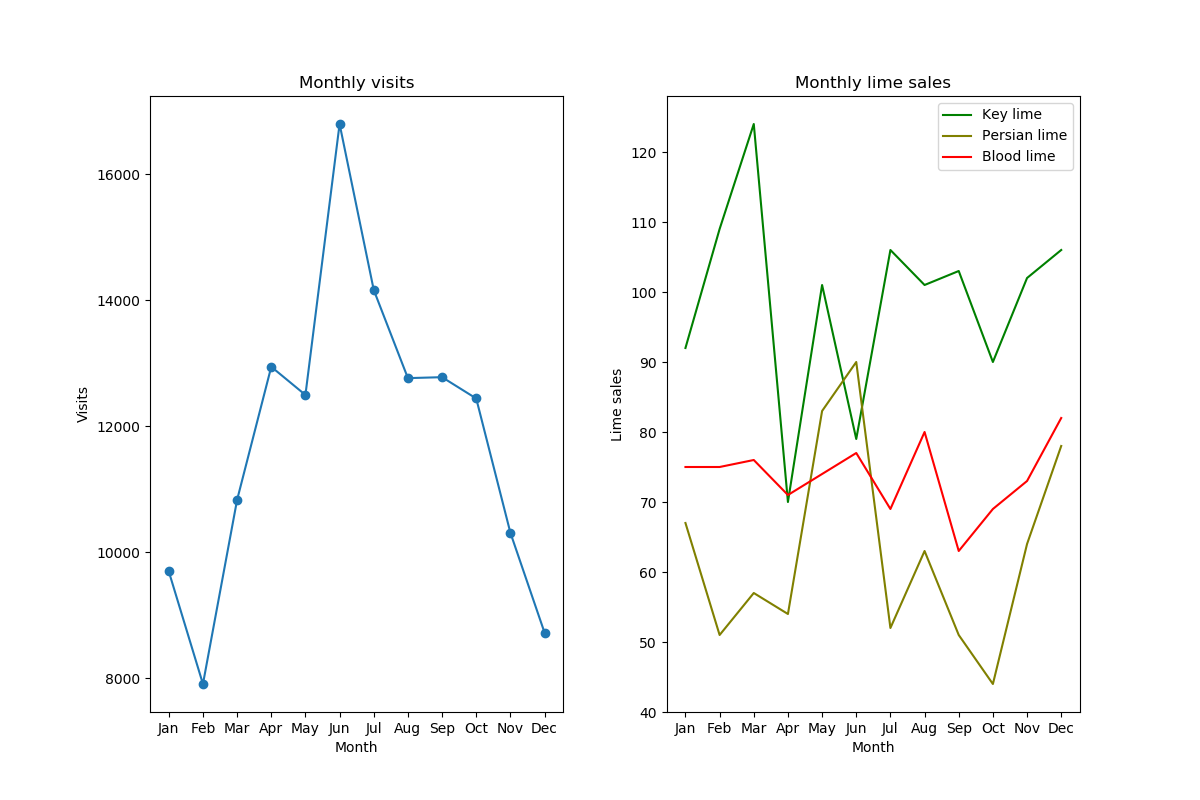
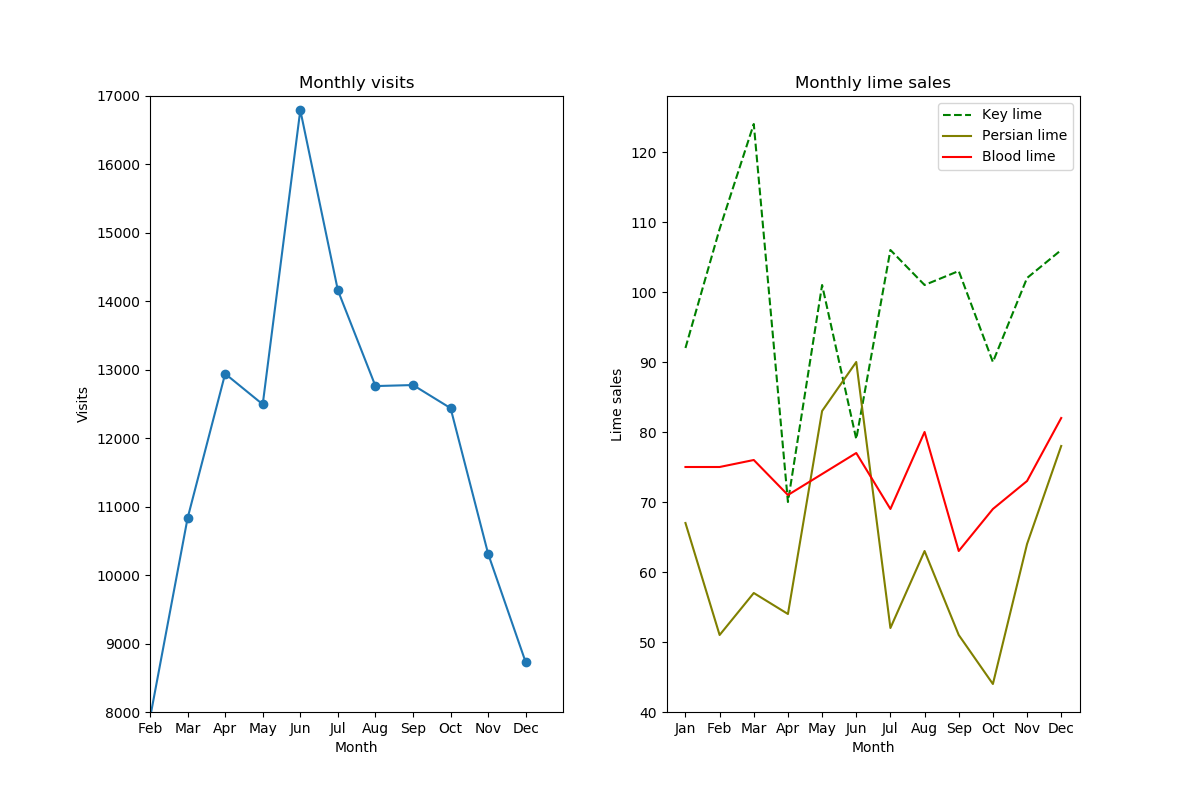
Add missing commands from exercise

diff --git a/script.py b/script.py
@@ -9,7 +9,7 @@ key_limes_per_month = [92.0, 109.0, 124.0, 70.0, 101.0, 79.0, 106.0, 101.0, 103.
 persian_limes_per_month = [67.0, 51.0, 57.0, 54.0, 83.0, 90.0, 52.0, 63.0, 51.0, 44.0, 64.0, 78.0]
 blood_limes_per_month = [75.0, 75.0, 76.0, 71.0, 74.0, 77.0, 69.0, 80.0, 63.0, 69.0, 73.0, 82.0]
 
-
+plt.close('all')
 # create left subplot
 plt.figure(figsize=[12, 8])
 ax1 = plt.subplot(1, 2, 1)
@@ -20,10 +20,11 @@ plt.ylabel('Visits')
 plt.title('Monthly visits')
 ax1.set_xticks(x_values)
 ax1.set_xticklabels(months)
+plt.axis([1, 12, 8000, 17000])
 
 # create right subplot
 ax2 = plt.subplot(1, 2, 2)
-plt.plot(x_values, key_limes_per_month, color='green')
+plt.plot(x_values, key_limes_per_month, color='green', linestyle='--')
 plt.plot(x_values, persian_limes_per_month, color='olive')
 plt.plot(x_values, blood_limes_per_month, color='red')
 plt.legend(['Key lime', 'Persian lime', 'Blood lime'])
@@ -33,8 +34,10 @@ plt.ylabel('Lime sales')
 ax2.set_xticks(x_values)
 ax2.set_xticklabels(months)
 
+
 # adjust padding
 plt.subplots_adjust(wspace=0.25)
+
 
 # saving file
 plt.savefig('Lime_sales.png')
